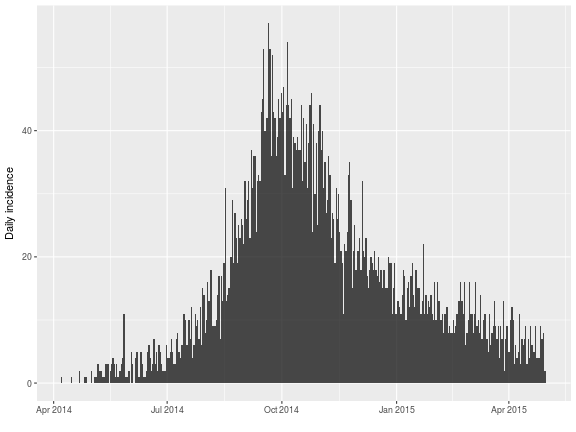
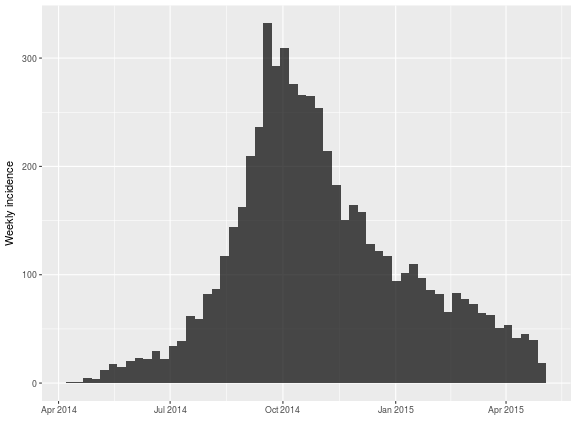
simpler version of the READNE

diff --git a/README.md b/README.md
@@ -5,16 +5,12 @@
 <img src="https://raw.githubusercontent.com/reconhub/incidence/master/logo/banner.png">
 
 <br>
-<br>
 
 [![Travis-CI Build Status](https://travis-ci.org/reconhub/incidence.svg?branch=master)](https://travis-ci.org/reconhub/incidence)
 
 [![Coverage Status](https://img.shields.io/codecov/c/github/reconhub/incidence/master.svg)](https://codecov.io/github/reconhub/incidence?branch=master)
 
 [![CRAN_Status_Badge](http://www.r-pkg.org/badges/version/incidence)](https://cran.r-project.org/package=incidence)
-
-This package implements functions and classes to compute, handle, visualise and model incidences
-from dates data.
 
 
 <br>
@@ -83,13 +79,19 @@ vignette("incidence_class", package="incidence")
 <br>
 <br>
 
-# Worked example: simulated Ebola outbreak
+# A quick overview
+
+The following worked example provides a brief overview of the package's
+functionalities. For a complete introduction, see the `overview` vignette:
+```{r, eval = FALSE} vignette("overview", package="incidence") ```
+
 
 ## Loading the data
 
-This example uses the simulated Ebola Virus Disease (EVD) outbreak from the package
-[*outbreaks*](http://github.com/reconhub/outbreaks). We will compute incidence for various time
-steps, calibrate two exponential models around the peak of the epidemic, and analyse the results.
+This example uses the simulated Ebola Virus Disease (EVD) outbreak from the
+package [*outbreaks*](http://github.com/reconhub/outbreaks). We will compute
+incidence for various time steps, calibrate two exponential models around the
+peak of the epidemic, and analyse the results.
 
 First, we load the data:
 
@@ -108,53 +110,26 @@ head(dat)
 
 
 ## Computing and plotting incidence
-We compute the daily incidence:
+We compute the weekly incidence:
 
 ```r
-i <- incidence(dat)
-i
+i.7 <- incidence(dat, interval=7)
+i.7
 #> <incidence object>
-#> [5888 cases from days 2014-04-07 to 2015-04-30]
+#> [5888 cases from days 2014-04-07 to 2015-04-27]
 #> 
-#> $counts: matrix with 389 rows and 1 columns
+#> $counts: matrix with 56 rows and 1 columns
 #> $n: 5888 cases in total
-#> $dates: 389 dates marking the left-side of bins
-#> $interval: 1 day
-#> $timespan: 389 days
-plot(i)
+#> $dates: 56 dates marking the left-side of bins
+#> $interval: 7 days
+#> $timespan: 386 days
+plot(i.7)
 ```
 
 ![plot of chunk incid1](figs/incid1-1.png)
 
-The daily incidence is quite noisy, but we can easily compute other incidence using larger time intervals:
 
-```r
-## weekly
-i.7 <- incidence(dat, interval=7)
-plot(i.7)
-```
-
-![plot of chunk interv](figs/interv-1.png)
-
-```r
-
-## bi-weekly
-i.14 <- incidence(dat, interval=14)
-plot(i.14, border = "white")
-```
-
-![plot of chunk interv](figs/interv-2.png)
-
-```r
-
-## period of 30 days
-i.30 <- incidence(dat, interval=30)
-plot(i.30, border = "white")
-```
-
-![plot of chunk interv](figs/interv-3.png)
-
-`incidence` can also compute incidence by specified groups using the `groups` argument. For instance, we can compute incidence by gender:
+`incidence` can also compute incidence by specified groups using the `groups` argument. For instance, we can compute the weekly incidence by gender:
 
 ```r
 i.7.sex <- incidence(dat, interval=7, groups = ebola.sim$linelist$gender)
@@ -173,94 +148,39 @@ plot(i.7.sex, stack = TRUE, border = "grey")
 
 ![plot of chunk gender](figs/gender-1.png)
 
-We can do the same for hospitals, using the 'clean' version of the dataset, with some customization of the legend:
-
-```r
-i.7.hosp <- with(ebola.sim.clean$linelist, 
-	 incidence(date.of.onset, interval=7, groups = hospital))
-i.7.hosp
-#> <incidence object>
-#> [5829 cases from days 2014-04-07 to 2015-04-27]
-#> [6 groups: Connaught Hospital, Military Hospital, NA, other, Princess Christian Maternity Hospital (PCMH), Rokupa Hospital]
-#> 
-#> $counts: matrix with 56 rows and 6 columns
-#> $n: 5829 cases in total
-#> $dates: 56 dates marking the left-side of bins
-#> $interval: 7 days
-#> $timespan: 386 days
-head(i.7.hosp$counts)
-#>      Connaught Hospital Military Hospital NA other
-#> [1,]                  0                 1  0     0
-#> [2,]                  1                 0  0     0
-#> [3,]                  0                 0  2     3
-#> [4,]                  1                 0  1     0
-#> [5,]                  3                 5  1     1
-#> [6,]                  2                 4  4     5
-#>      Princess Christian Maternity Hospital (PCMH) Rokupa Hospital
-#> [1,]                                            0               0
-#> [2,]                                            0               0
-#> [3,]                                            0               0
-#> [4,]                                            1               1
-#> [5,]                                            1               1
-#> [6,]                                            1               1
-plot(i.7.hosp, stack=TRUE) + 
-    theme(legend.position= "top") + 
-    labs(fill="")
-```
-
-![plot of chunk hosp](figs/hosp-1.png)
-
-
 
 ## Handling `incidence` objects
 `incidence` objects can be manipulated easily. The `[` operator implements subetting of dates (first argument) and groups (second argument). 
-For instance, to keep only the peak of the distribution:
+For instance, to keep only the first 20 weeks of the epidemic:
 
 ```r
-i[100:250]
+i.7[1:20]
 #> <incidence object>
-#> [4103 cases from days 2014-07-15 to 2014-12-12]
+#> [797 cases from days 2014-04-07 to 2014-08-18]
 #> 
-#> $counts: matrix with 151 rows and 1 columns
-#> $n: 4103 cases in total
-#> $dates: 151 dates marking the left-side of bins
-#> $interval: 1 day
-#> $timespan: 151 days
-plot(i[100:250])
-```
-
-![plot of chunk middle](figs/middle-1.png)
-
-Or to keep every other week:
-
-```r
-i.7[c(TRUE,FALSE)]
-#> <incidence object>
-#> [2891 cases from days 2014-04-07 to 2015-04-20]
-#> 
-#> $counts: matrix with 28 rows and 1 columns
-#> $n: 2891 cases in total
-#> $dates: 28 dates marking the left-side of bins
+#> $counts: matrix with 20 rows and 1 columns
+#> $n: 797 cases in total
+#> $dates: 20 dates marking the left-side of bins
 #> $interval: 7 days
-#> $timespan: 379 days
-plot(i.7[c(TRUE,FALSE)])
+#> $timespan: 134 days
+plot(i.7[1:20])
 ```
 
-![plot of chunk stripes](figs/stripes-1.png)
+![plot of chunk start](figs/start-1.png)
 
 Some temporal subsetting can be even simpler using `subset`, which permits to retain data within a specified time window:
 
 ```r
-i.tail <- subset(i, from=as.Date("2015-01-01"))
+i.tail <- subset(i.7, from=as.Date("2015-01-01"))
 i.tail
 #> <incidence object>
-#> [1205 cases from days 2015-01-01 to 2015-04-30]
+#> [1156 cases from days 2015-01-05 to 2015-04-27]
 #> 
-#> $counts: matrix with 120 rows and 1 columns
-#> $n: 1205 cases in total
-#> $dates: 120 dates marking the left-side of bins
-#> $interval: 1 day
-#> $timespan: 120 days
+#> $counts: matrix with 17 rows and 1 columns
+#> $n: 1156 cases in total
+#> $dates: 17 dates marking the left-side of bins
+#> $interval: 7 days
+#> $timespan: 113 days
 plot(i.tail, border="white")
 ```
 
@@ -285,23 +205,6 @@ plot(i.7.outcome, stack = TRUE, border = "grey")
 
 ![plot of chunk i7outcome](figs/i7outcome-1.png)
 
-By default, `incidence` treats missing data (NA) as a separate group (see argument `na_as_group`). We could disable this to retain only known outcomes, but alternatively we can simply subset the object to exclude the last (3rd) group:
-
-```r
-i.7.outcome[,1:2]
-#> <incidence object>
-#> [3905 cases from days 2014-04-07 to 2015-04-27]
-#> [2 groups: Death, NA]
-#> 
-#> $counts: matrix with 56 rows and 2 columns
-#> $n: 3905 cases in total
-#> $dates: 56 dates marking the left-side of bins
-#> $interval: 7 days
-#> $timespan: 386 days
-plot(i.7.outcome[,1:2], stack = TRUE, border = "grey")
-```
-
-![plot of chunk groupsub](figs/groupsub-1.png)
 
 Groups can also be collapsed into a single time series using `pool`:
 
@@ -385,60 +288,7 @@ plot(i.7[1:20], fit = early.fit)
 
 
 In this case, we would ideally like to fit two models, before and after the peak of the epidemic.
-This is possible using the following approach, if you know what date to use to split the data in two phases:
-
-```r
-fit.both <- fit(i.7, split=as.Date("2014-10-15"))
-fit.both
-#> $before
-#> <incidence_fit object>
-#> 
-#> $lm: regression of log-incidence over time
-#> 
-#> $info: list containing the following items:
-#>   $r (daily growth rate):
-#> [1] 0.02741985
-#> 
-#>   $r.conf (confidence interval):
-#>           2.5 %     97.5 %
-#> [1,] 0.02407933 0.03076038
-#> 
-#>   $doubling (doubling time in days):
-#> [1] 25.27902
-#> 
-#>   $doubling.conf (confidence interval):
-#>         2.5 %   97.5 %
-#> [1,] 22.53377 28.78598
-#> 
-#>   $pred: data.frame of incidence predictions (28 rows, 5 columns)
-#> 
-#> $after
-#> <incidence_fit object>
-#> 
-#> $lm: regression of log-incidence over time
-#> 
-#> $info: list containing the following items:
-#>   $r (daily growth rate):
-#> [1] -0.01014465
-#> 
-#>   $r.conf (confidence interval):
-#>            2.5 %       97.5 %
-#> [1,] -0.01127733 -0.009011981
-#> 
-#>   $halving (halving time in days):
-#> [1] 68.32636
-#> 
-#>   $halving.conf (confidence interval):
-#>         2.5 %   97.5 %
-#> [1,] 61.46379 76.91397
-#> 
-#>   $pred: data.frame of incidence predictions (28 rows, 5 columns)
-plot(i.7, fit=fit.both)
-```
-
-![plot of chunk fit.both](figs/fit.both-1.png)
-
-This is much better, but the splitting date is not completely optimal. To look for the best possible splitting date (i.e. the one maximizing the average fit of both models), we use:
+This is possible using the following approach, in which the best possible splitting date (i.e. the one maximizing the average fit of both models), is determined automatically:
 
 ```r
 best.fit <- fit_optim_split(i.7)
@@ -519,69 +369,6 @@ plot(i.7, fit=best.fit$fit)
 
 ![plot of chunk optim](figs/optim-2.png)
 
-These models are very good approximation of these data, showing a doubling time of 23.2 days during the first phase, and a halving time of 68.2 days during the second.
-
-
-Note that `fit` will also take groups into account if incidence has been computed for several groups:
-
-```r
-best.fit2 <- fit_optim_split(i.7.sex)$fit
-best.fit2
-#> $before
-#> <incidence_fit object>
-#> 
-#> $lm: regression of log-incidence over time
-#> 
-#> $info: list containing the following items:
-#>   $r (daily growth rate):
-#>          f          m 
-#> 0.02381854 0.02640719 
-#> 
-#>   $r.conf (confidence interval):
-#>        2.5 %     97.5 %
-#> f 0.02097832 0.02665876
-#> m 0.01955031 0.03326408
-#> 
-#>   $doubling (doubling time in days):
-#>        f        m 
-#> 29.10116 26.24842 
-#> 
-#>   $doubling.conf (confidence interval):
-#>      2.5 %   97.5 %
-#> f 26.00073 33.04111
-#> m 20.83771 35.45454
-#> 
-#>   $pred: data.frame of incidence predictions (46 rows, 6 columns)
-#> 
-#> $after
-#> <incidence_fit object>
-#> 
-#> $lm: regression of log-incidence over time
-#> 
-#> $info: list containing the following items:
-#>   $r (daily growth rate):
-#>           f           m 
-#> -0.01002305 -0.01056026 
-#> 
-#>   $r.conf (confidence interval):
-#>         2.5 %       97.5 %
-#> f -0.01110163 -0.008944473
-#> m -0.01316417 -0.007956340
-#> 
-#>   $halving (halving time in days):
-#>        f        m 
-#> 69.15531 65.63734 
-#> 
-#>   $halving.conf (confidence interval):
-#>      2.5 %   97.5 %
-#> f 62.43653 77.49447
-#> m 52.65406 87.11885
-#> 
-#>   $pred: data.frame of incidence predictions (62 rows, 6 columns)
-plot(i.7.sex, fit=best.fit2)
-```
-
-![plot of chunk optim2](figs/optim2-1.png)
 
 <br>
 <br>
